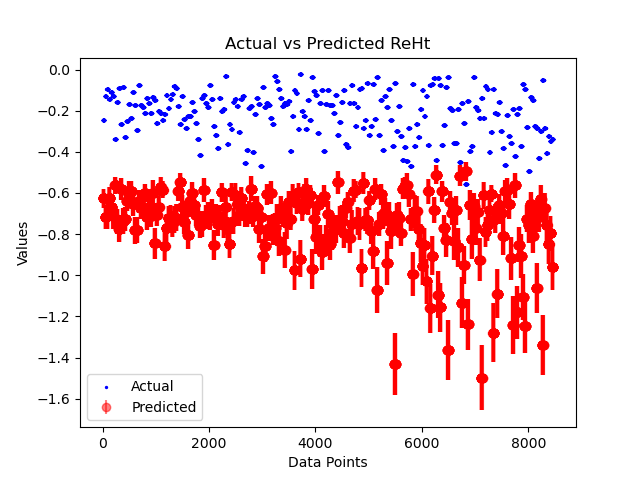
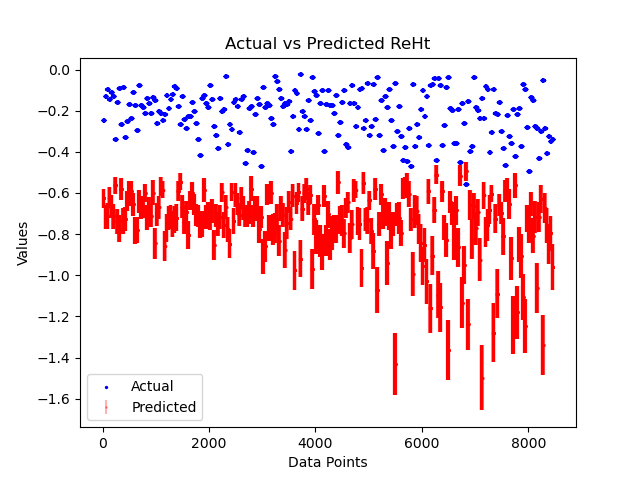
added the analysis accuracy and precision - needs improvement

diff --git a/Work/Librado/model_comparator/ModelComparator.py b/Work/Librado/model_comparator/ModelComparator.py
@@ -3,6 +3,7 @@ import pandas as pd
 import numpy as np
 import os
 import matplotlib.pyplot as plt
+from sklearn.metrics import mean_absolute_error, mean_squared_error, r2_score
 from BHDVCS_tf_modified import TotalFLayer
 
 def load_model_and_intermediate_model(model_path):
@@ -12,6 +13,15 @@ def load_model_and_intermediate_model(model_path):
                                               outputs=full_model.get_layer('cff_output_layer').output)
     return full_model, intermediate_layer_model
 
+
+def calculate_accuracy(predicted_values, mean_predicted):
+    n = len(predicted_values)
+    return np.sum((predicted_values - mean_predicted) ** 2) / n
+
+def calculate_precision(true_values, mean_predicted):
+    return 1 - np.abs((true_values - mean_predicted) / true_values)
+
+
 def predict_cffs_and_f(intermediate_model, full_model, inputs):
     cffs = intermediate_model.predict(inputs)
     f_values = full_model.predict(inputs)
@@ -20,9 +30,9 @@ def predict_cffs_and_f(intermediate_model, full_model, inputs):
 def create_folder_if_not_exists(folder_name):
     if not os.path.exists(folder_name):
         os.makedirs(folder_name)
-        print(f"Folder '{folder_name}' created successfully!")
+        print(f"Folder '{folder_name}' created successfully")
     else:
-        print(f"Folder '{folder_name}' already exists!")
+        print(f"Folder '{folder_name}' already exists")
 
 def plot_actual_vs_predicted(actual_values, predicted_values, title, filename, dot_size=2, x_range=None):
     plt.figure()
@@ -43,12 +53,12 @@ def save_predictions_to_csv(predictions, model_name, folder_name='DNNvalues'):
     df.to_csv(csv_filename, index=False)
     print(f"Predictions saved to {csv_filename}")
 
-def plot_with_error_bars(actual_values, predicted_values_array, title, filename, dot_size=2, x_range=None):
+def plot_with_error_bars(actual_values, predicted_values_array, title, filename, dot_size=2, error_bar_size=1, x_range=None):
     mean_predictions = np.mean(predicted_values_array, axis=0)
     std_predictions = np.std(predicted_values_array, axis=0)
 
     plt.figure()
-    plt.errorbar(range(len(mean_predictions)), mean_predictions, yerr=std_predictions, fmt='o', color='red', alpha=0.5, label='Predicted')
+    plt.errorbar(range(len(mean_predictions)), mean_predictions, yerr=std_predictions, fmt='o', color='red', alpha=0.3, label='Predicted', markersize=error_bar_size)
     plt.scatter(range(len(actual_values)), actual_values, color='blue', s=dot_size, label='Actual')
     if x_range is not None:
         plt.xlim(x_range)
@@ -57,7 +67,7 @@ def plot_with_error_bars(actual_values, predicted_values_array, title, filename,
     plt.ylabel('Values')
     plt.legend()
     plt.savefig(os.path.join('DNNimages', filename))
-    plt.close()  # Close the figure to free memory
+    plt.close()
 
 def main():
     create_folder_if_not_exists('DNNimages')
@@ -86,11 +96,33 @@ def main():
     all_cff_predictions_array = np.array(all_cff_predictions)
 
     actual_F = prediction_data['F'].values
+    predicted_F = all_f_predictions_array[:, :, 0].mean(axis=0)
+    mean_predicted_F = predicted_F.mean()
+
+    print("\nMetrics for F:")
+    f_accuracy = calculate_accuracy(predicted_F, mean_predicted_F)
+    f_precision = calculate_precision(actual_F, mean_predicted_F)
+
+    print(f"Accuracy for F: {f_accuracy}")
+    print(f"Precision for F: {f_precision.mean()}")
+
     plot_with_error_bars(actual_F, all_f_predictions_array[:, :, 0], 'Actual vs Predicted F', 'actual_vs_predicted_F_error_bars.png')
 
     for i, cff_name in enumerate(['ReH', 'ReE', 'ReHt', 'dvcs']):
         actual_cff = prediction_data[cff_name].values
+        predicted_cff = all_cff_predictions_array[:, :, i].mean(axis=0)
+        
+        mean_predicted_cff = predicted_cff.mean()
+
+        print(f"\nMetrics for {cff_name}:")
+        cff_accuracy = calculate_accuracy(predicted_cff, mean_predicted_cff)
+        cff_precision = calculate_precision(actual_cff, mean_predicted_cff)
+
+        print(f"Accuracy for {cff_name}: {cff_accuracy}")
+        print(f"Precision for {cff_name}: {cff_precision.mean()}")
+
         plot_with_error_bars(actual_cff, all_cff_predictions_array[:, :, i], f'Actual vs Predicted {cff_name}', f'actual_vs_predicted_{cff_name}_error_bars.png')
+
 
 if __name__ == "__main__":
     main()
